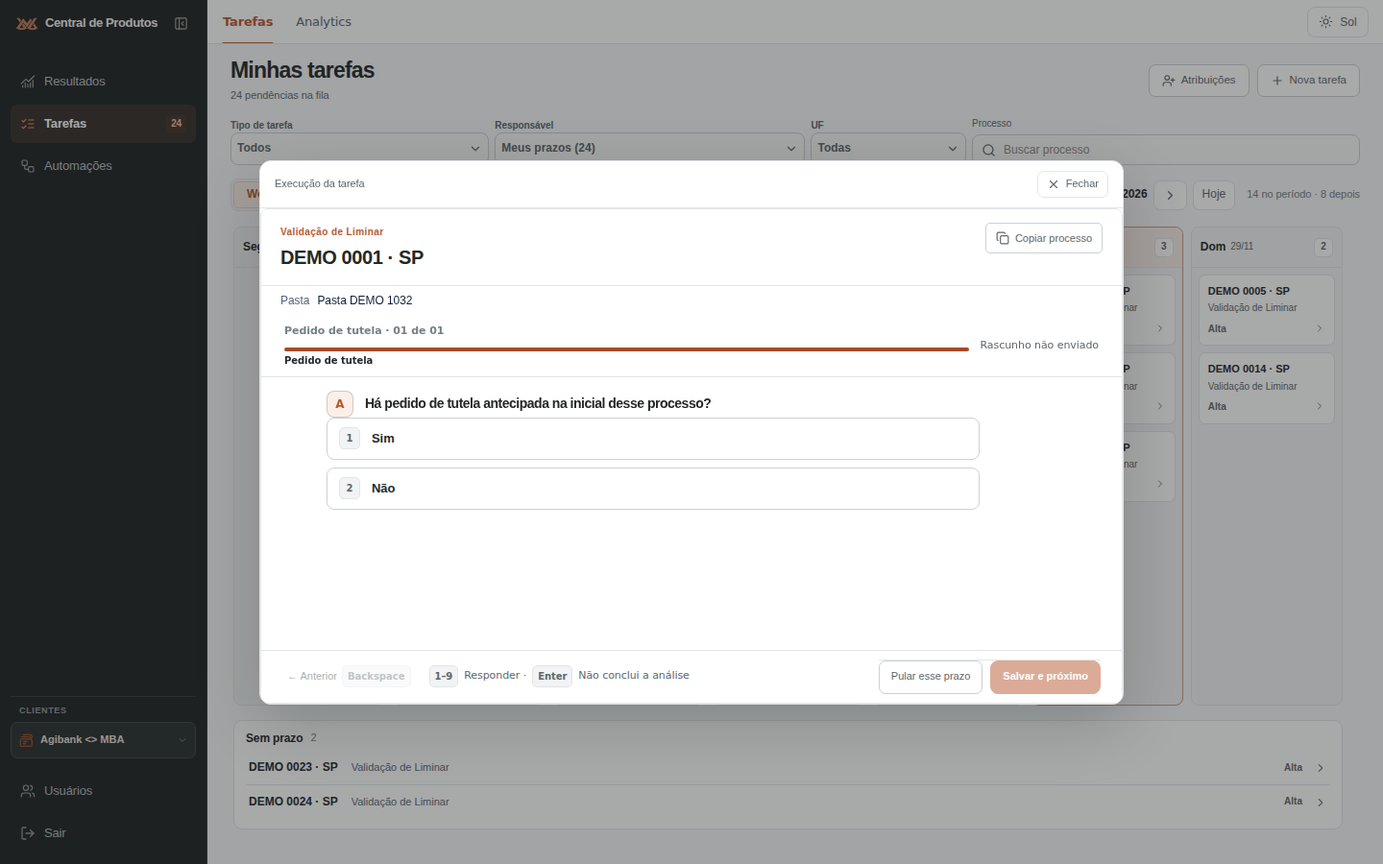
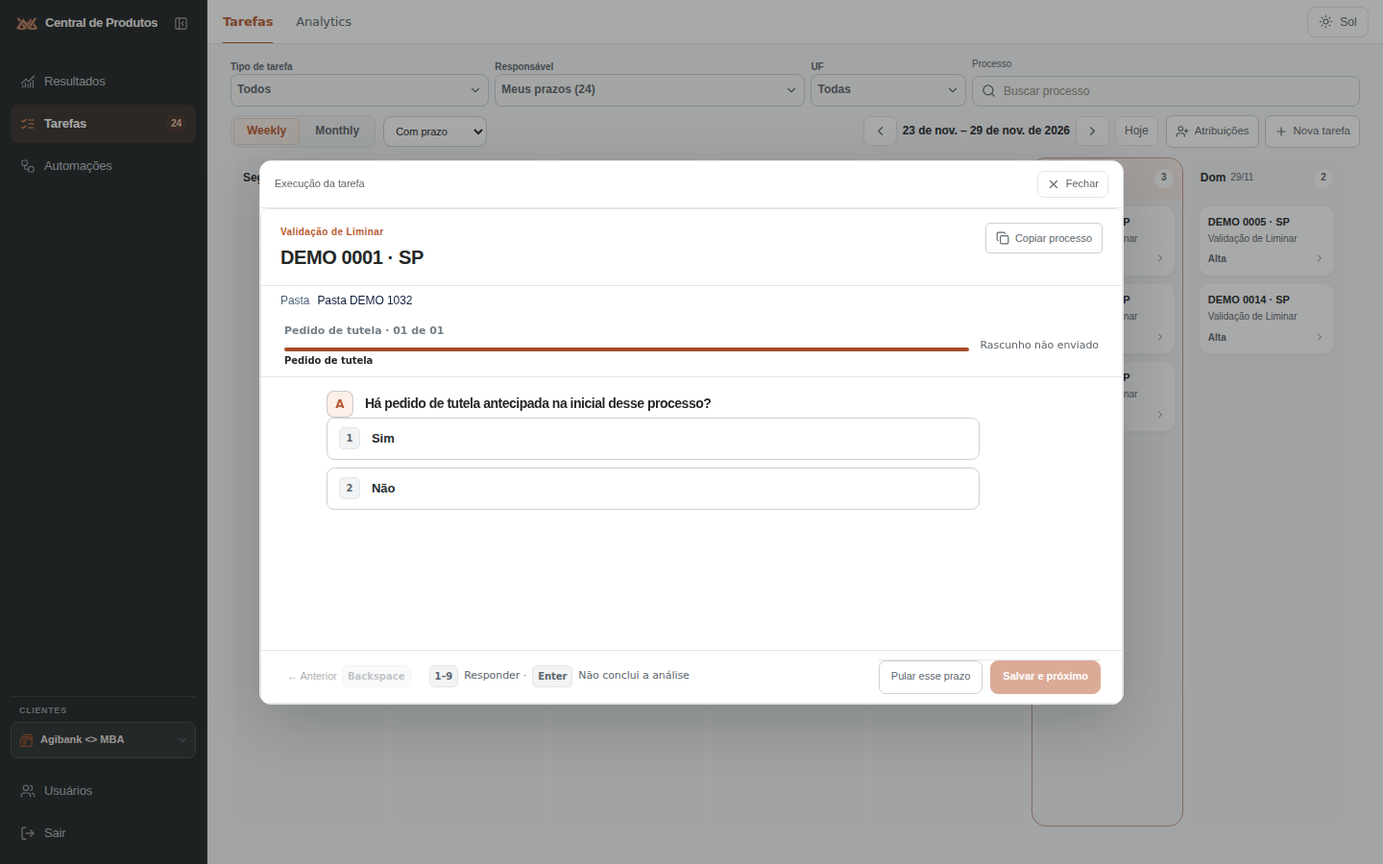
refine(tasks): simplify calendar chrome and filter undated tasks

diff --git a/src/tasks/taskCalendar.css b/src/tasks/taskCalendar.css
@@ -1,12 +1,10 @@
 /* Workspace presentation only. Use the current shell's Sol/Lua design tokens. */
 #tarefas[data-react-tasks='true'] .task-station .tasks-workspace.task-calendar-workspace {
   display:flex;flex-direction:column;grid-template-columns:none!important;grid-template-rows:none!important;
-  gap:14px!important;min-height:0;height:100%!important;overflow:visible!important;
+  gap:9px!important;min-height:0;height:100%!important;overflow:visible!important;
 }
-.task-agenda-header{display:flex;align-items:center;justify-content:space-between;gap:16px;flex-wrap:wrap;flex:none}
-.task-agenda-header h1{margin:0;color:var(--mba-text);font-size:23px;font-weight:600;letter-spacing:-.035em;line-height:1.2}
-.task-agenda-header p{margin:4px 0 0;color:var(--mba-text-2);font-size:11px}
-.task-agenda-actions{display:flex;gap:8px;flex-wrap:wrap}
+.task-agenda-actions{display:flex;gap:6px;flex-wrap:wrap;align-items:center}
+.task-agenda-actions button{min-height:31px;padding:0 9px;font-size:11px}
 .task-agenda-actions button,.task-management-return button{display:inline-flex;align-items:center;gap:6px;white-space:nowrap}
 .task-management-return{margin-bottom:14px}
 .task-agenda-filters{flex:none}
@@ -19,7 +17,7 @@
 #tarefas .task-agenda-filters .mba-react-select-trigger{height:34px;padding:0 10px}
 #tarefas[data-react-tasks='true'] .tasks-react-root.task-station .task-calendar-workspace .tasks-execution-panel{position:relative;top:auto;flex:1;display:flex;flex-direction:column;min-height:0;height:auto;gap:6px}
 .tcal{min-height:0;display:flex;flex:1;flex-direction:column;gap:10px;color:var(--mba-text);font-size:12px}
-.tcal-toolbar{display:flex;align-items:center;gap:12px;flex-wrap:wrap;flex:none;padding:0 0 6px}
+.tcal-toolbar{display:flex;align-items:center;gap:8px;flex-wrap:wrap;flex:none;padding:0}
 .tcal-modes{display:inline-flex;gap:2px;padding:2px;border:1px solid var(--mba-border);border-radius:8px;background:var(--mba-subtle)}
 .tcal-modes button{height:28px;padding:0 13px;border:1px solid transparent;border-radius:5px;background:transparent;color:var(--mba-text-2);font:inherit;font-weight:600;cursor:pointer}
 .tcal-modes button.active{background:var(--mba-accent-soft,var(--mba-blue-soft));color:var(--mba-accent,var(--mba-blue));border-color:color-mix(in srgb,var(--mba-blue) 17%,transparent)}
@@ -28,28 +26,28 @@
 .tcal-nav strong{min-width:150px;text-align:center;font-size:12px;font-weight:600}
 .tcal-nav button{height:31px;min-width:31px;padding:0 9px;display:inline-grid;place-items:center;border:1px solid var(--mba-border);border-radius:7px;background:var(--mba-surface);color:var(--mba-text-2);font:inherit;cursor:pointer}
 .tcal-nav button:hover,.tcal-item:hover{background:var(--mba-subtle)}
-.tcal-count{color:var(--mba-muted);font-size:11px;order:0}
+.tcal-nav-spacer{flex:1}
+.tcal-deadline-filter{height:32px;padding:0 8px;border:1px solid var(--mba-border);border-radius:9px;background:var(--mba-surface);color:var(--mba-text-2);font:inherit;font-size:11px;cursor:pointer}
 .tcal-scroll{flex:1;min-height:0;overflow:auto;display:flex;flex-direction:column;gap:12px;scrollbar-gutter:stable;padding:0 3px 12px}
 .tcal-kanban-scroll{flex:1;min-height:410px;overflow-x:auto;overflow-y:hidden;padding-bottom:3px;scrollbar-width:thin}
 .tcal-kanban{display:grid;grid-template-columns:repeat(7,minmax(150px,1fr));gap:8px;min-width:1098px;min-height:100%;height:100%}
-.tcal-kanban-column{display:flex;flex-direction:column;min-width:0;min-height:0;border:1px solid var(--mba-border);border-radius:8px;background:var(--mba-subtle)}
+.tcal-kanban-column{display:flex;flex-direction:column;min-width:0;min-height:0;border:1px solid transparent;border-radius:15px;background:color-mix(in srgb,var(--mba-subtle) 65%,var(--mba-bg));overflow:hidden}
 .tcal-kanban-column.weekend{background:color-mix(in srgb,var(--mba-subtle) 68%,var(--mba-bg))}
-.tcal-kanban-heading{flex:none;display:flex;align-items:center;justify-content:space-between;gap:4px;padding:10px 9px;border-bottom:1px solid var(--mba-border);min-height:42px}
+.tcal-kanban-heading{flex:none;display:flex;align-items:center;justify-content:space-between;gap:4px;padding:10px 9px;border-bottom:0;min-height:42px}
 .tcal-kanban-heading>div{display:flex;align-items:center;gap:5px;min-width:0;flex-wrap:wrap}
 .tcal-kanban-heading strong{font-size:12px;font-weight:650;color:var(--mba-text)}
 .tcal-kanban-date{font-size:10px;color:var(--mba-text-2);font-variant-numeric:tabular-nums}
-.tcal-kanban-count{flex:none;font-size:10px;font-weight:600;font-variant-numeric:tabular-nums;color:var(--mba-text-2);background:var(--mba-surface);border:1px solid var(--mba-border);min-width:20px;height:20px;display:grid;place-items:center;border-radius:5px;padding:0 4px}
+.tcal-kanban-count{flex:none;font-size:10px;font-weight:600;font-variant-numeric:tabular-nums;color:var(--mba-text-2);background:var(--mba-surface);border:0;min-width:20px;height:20px;display:grid;place-items:center;border-radius:999px;padding:0 4px}
 .tcal-today-label{font-size:9px;color:var(--mba-blue);font-weight:600}
 .tcal-kanban-column.today{border-color:color-mix(in srgb,var(--mba-blue) 50%,var(--mba-border))}
-.tcal-kanban-column.today .tcal-kanban-heading{background:var(--mba-blue-soft);border-radius:7px 7px 0 0}
+.tcal-kanban-column.today .tcal-kanban-heading{background:var(--mba-blue-soft);border-radius:14px 14px 0 0}
 .tcal-kanban-items{display:flex;flex-direction:column;gap:7px;overflow:auto;min-height:0;flex:1;padding:7px;scrollbar-width:thin}
-.tcal-kanban-empty{display:block;padding:9px 2px;color:var(--mba-muted);font-size:10px;text-align:center}
 .tcal-lane{border:1px solid var(--mba-border);border-radius:9px;background:var(--mba-surface);overflow:hidden}
 .tcal-item{width:100%;min-width:0;display:flex;align-items:center;gap:12px;min-height:35px;padding:6px 3px;border:0;border-bottom:1px solid var(--mba-border);background:transparent;color:var(--mba-text);font:inherit;text-align:left;cursor:pointer}
 .tcal-item-main{flex:1;min-width:0;display:flex;align-items:center;gap:14px}
 .tcal-item strong{font-size:12px;font-weight:600;overflow:hidden;text-overflow:ellipsis;white-space:nowrap}
 .tcal-item small{color:var(--mba-text-2);font-size:11px;overflow:hidden;text-overflow:ellipsis;white-space:nowrap}
-.tcal-kanban-items>.tcal-item{flex:none;display:grid;grid-template-columns:minmax(0,1fr) auto;gap:8px 4px;align-items:start;min-height:74px;padding:9px;border:1px solid var(--mba-border);border-radius:7px;background:var(--mba-surface)}
+.tcal-kanban-items>.tcal-item{flex:none;display:grid;grid-template-columns:minmax(0,1fr) auto;gap:8px 4px;align-items:start;min-height:74px;padding:9px;border:1px solid color-mix(in srgb,var(--mba-border) 45%,transparent);border-radius:12px;background:var(--mba-surface);box-shadow:0 1px 2px color-mix(in srgb,var(--mba-text) 5%,transparent)}
 .tcal-kanban-items>.tcal-item:hover{border-color:var(--mba-border-strong);background:var(--mba-surface)}
 .tcal-kanban-items .tcal-item-main{grid-column:1/-1;display:flex;flex-direction:column;align-items:flex-start;gap:4px;width:100%}
 .tcal-kanban-items .tcal-item-main strong{width:100%;font-size:11px;white-space:normal;overflow-wrap:anywhere;line-height:1.3}
@@ -63,7 +61,7 @@
 .tcal-item-arrow{color:var(--mba-muted);flex:none}
 .tcal-item.selected:focus-visible{background:var(--mba-accent-soft,var(--mba-blue-soft))}
 .tcal-more{align-self:flex-start;padding:8px 3px;border:0;background:transparent;color:var(--mba-blue);font:inherit;font-size:11px;font-weight:600;cursor:pointer;text-align:left}
-.tcal-grid{display:grid;grid-template-columns:repeat(7,minmax(0,1fr));gap:1px;border:1px solid var(--mba-border);border-radius:9px;background:var(--mba-border);overflow:hidden;flex:none}
+.tcal-grid{display:grid;grid-template-columns:repeat(7,minmax(0,1fr));gap:1px;border:1px solid var(--mba-border);border-radius:14px;background:var(--mba-border);overflow:hidden;flex:none}
 .tcal-weekday{padding:8px 10px;background:var(--mba-subtle);color:var(--mba-text-2);font-size:10px;font-weight:600;text-transform:uppercase}
 .tcal-day{min-width:0;background:var(--mba-surface);padding:7px;display:flex;flex-direction:column;gap:5px;min-height:90px}
 .tcal-day.outside{background:var(--mba-subtle);color:var(--mba-muted)}
@@ -71,11 +69,16 @@
 .tcal-day-head{display:flex;align-items:center;justify-content:space-between;font-weight:600;font-size:11px}
 .tcal-day-head em{font-style:normal;padding:2px 6px;border-radius:5px;background:var(--mba-subtle);color:var(--mba-text-2);font-size:10px}
 .tcal-day-items{display:flex;flex-direction:column;gap:3px}
-.tcal-item.compact{min-height:22px;padding:4px 6px;border:0;border-radius:4px;background:var(--mba-subtle)}
+.tcal-item.compact{min-height:22px;padding:4px 6px;border:0;border-radius:7px;background:var(--mba-subtle)}
 .tcal-item.compact strong{font-size:10px}
 .tcal-item.compact:hover{background:var(--mba-accent-soft,var(--mba-blue-soft))}
-.tcal-lanes{display:grid;grid-template-columns:repeat(auto-fit,minmax(260px,1fr));gap:10px;flex:none}
-.tcal-lane{padding:10px 12px;display:flex;flex-direction:column;gap:5px}
+.tcal-undated-view{flex:1;min-height:0}
+.tcal-undated-items{display:grid;grid-template-columns:repeat(auto-fill,minmax(200px,1fr));gap:8px}
+.tcal-undated-items>.tcal-item{padding:10px;border:1px solid var(--mba-border);border-radius:12px;background:var(--mba-surface)}
+.tcal-undated-items .tcal-item-main{flex-direction:column;align-items:flex-start;gap:4px}
+.tcal-undated-items .tcal-more{grid-column:1/-1}
+.tcal-undated-empty{color:var(--mba-muted);font-size:11px}
+.tcal-lane{flex:none;padding:10px 12px;display:flex;flex-direction:column;gap:5px}
 .tcal-lane h3{margin:0;display:flex;align-items:center;gap:8px;font-size:12px;font-weight:600}
 .tcal-lane h3 em{font-style:normal;color:var(--mba-muted);font-size:11px;font-weight:500}
 .tcal-lane>div{display:grid}
@@ -89,4 +92,4 @@
 #tarefas .task-card-shell>.execution-card{border:0!important;border-radius:0!important}
 .task-card-shell .tasks-renderer-body{min-height:0;overflow:auto}
 @media(max-width:1000px){#tarefas .task-agenda-filters .queue-station-filters{grid-template-columns:repeat(2,minmax(0,1fr))!important}.tcal-nav{margin-left:0}}
-@media(max-width:700px){#tarefas .task-agenda-filters .queue-station-filters{gap:7px}.task-agenda-header h1{font-size:19px}.tcal-scroll{overflow:visible}.tcal-monthly .tcal-scroll{overflow:auto}.tcal-monthly .tcal-grid{min-width:560px}.tcal-item-main{flex-direction:column;align-items:flex-start;gap:3px}.tcal-weekly .tcal-scroll{overflow:auto}.tcal-kanban-scroll{flex:none;height:460px}.task-card-layer{padding:8px}.task-card-layer>.task-card-shell{height:min(86dvh,680px);max-height:calc(100dvh - 16px)}}
+@media(max-width:700px){#tarefas .task-agenda-filters .queue-station-filters{gap:7px}.tcal-scroll{overflow:visible}.tcal-monthly .tcal-scroll{overflow:auto}.tcal-monthly .tcal-grid{min-width:560px}.tcal-item-main{flex-direction:column;align-items:flex-start;gap:3px}.tcal-weekly .tcal-scroll{overflow:auto}.tcal-kanban-scroll{flex:none;height:460px}.task-card-layer{padding:8px}.task-card-layer>.task-card-shell{height:min(86dvh,680px);max-height:calc(100dvh - 16px)}}

diff --git a/src/tasks/TasksApp.tsx b/src/tasks/TasksApp.tsx
@@ -841,13 +841,6 @@ export function TasksApp() {
       {loadError ? <div className="workbench-notice" role="alert"><span>Não foi possível atualizar a fila. {loadError}</span><button type="button" onClick={() => void loadTaskList(true)}>Tentar novamente</button></div> : null}
       {actionNotice ? <div className="execution-notification" role="status"><span>{actionNotice}</span><button type="button" aria-label="Fechar confirmação" onClick={() => setActionNotice(null)}>×</button></div> : null}
       <section className="tasks-workspace task-calendar-workspace">
-        <header className="task-agenda-header">
-          <div><h1>{selectedAssignee === 'mine' ? 'Minhas tarefas' : 'Tarefas'}</h1><p>{queueHydrating ? 'Atualizando fila…' : `${filteredItems.length} pendências na fila`}</p></div>
-          <div className="task-agenda-actions">
-            {(manager || canViewOtherTasks) ? <button type="button" className="secondary-button" onClick={() => navigateTaskTab('tarefas/atribuicoes')}><UserPlus size={14}/> Atribuições</button> : null}
-            {canCreate ? <button type="button" className="secondary-button" onClick={() => setCreateOpen(true)}><Plus size={14}/> Nova tarefa</button> : null}
-          </div>
-        </header>
         <div className="task-agenda-filters">
           <div className="queue-station-filters">
         <SelectMenu label="Tipo de tarefa" value={selectedType} options={typeOptions} onChange={value => { setSelectedType(value); setActiveKey(null); }} />
@@ -857,7 +850,10 @@ export function TasksApp() {
           </div>
           {assigneeError ? <small className="tasks-queue-load-error" role="alert">{assigneeError}</small> : null}
         </div>
-        <main className="tasks-execution-panel">{!filteredItems.length ? <div className="tasks-react-state"><strong>{loading ? 'Carregando tarefas' : 'Nenhum processo selecionado'}</strong><span>{loadError || (relevantTasks.length ? 'Selecione um filtro com processos pendentes.' : 'Não há tarefas atribuídas a este usuário.')}</span>{loadError ? <button className="secondary-button" type="button" onClick={() => void loadTaskList(true)}>Tentar novamente</button> : null}</div> : null}<TaskCalendar items={filteredItems} mode={calendarMode} anchor={calendarAnchor} activeKey={activeKey} onModeChange={changeCalendarMode} onAnchorChange={setCalendarAnchor} onOpen={openItem} />{cardVisible ? <div className="task-card-layer" onMouseDown={event => { if (event.target === event.currentTarget) closeCard(); }}><div className="task-card-shell" ref={cardRef} tabIndex={-1} role="dialog" aria-modal="true" aria-label={activeItem ? `Execução de ${activeItem.process.case_number || 'processo'}` : 'Detalhe da tarefa'}><div className="task-card-bar"><span>Execução da tarefa</span><button type="button" onClick={closeCard} aria-label="Fechar e voltar à visualização"><X size={14} /> Fechar</button></div>{linkedError ? <div className="tasks-react-state" role="alert">{linkedError}</div> : linkedPreview ? <article className="tasks-renderer-card execution-card"><ProcessHeading task={linkedPreview.task} process={linkedPreview.process}/><div className="task-form-content"><h3>{linkedPreview.task.title}</h3><p>Status: {taskStatusLabel(linkedPreview.process.status)} · Prioridade: {linkedPreview.task.priority}</p><p>Responsável: {linkedPreview.task.responsible_name || linkedPreview.process.assignee_id || 'Não informado'}</p><p>Prazo: {formatDate(linkedPreview.task.deadline_at)}</p><p role="status">Consulta da tarefa. A execução exige atribuição e tarefa pendente.</p></div></article> : activeItem && !canExecuteTeam && !processAssignedToUser(activeItem.task, activeItem.process, user, manager) ? <article className="tasks-renderer-card execution-card"><ProcessHeading task={activeItem.task} process={activeItem.process}/><TaskBrief task={activeItem.task} process={activeItem.process}/><div className="task-form-content"><p><strong>Visualização da equipe</strong></p><p>Responsável selecionado: {assigneeTotals.find(person => person.id === activeItem.process.assignee_id)?.name || 'Não informado'}</p><p>Prazo: {formatDate(activeItem.task.deadline_at)}</p><p>Você pode consultar este prazo. A execução exige permissão específica para tarefas de outros responsáveis.</p></div></article> : activeItem ? <><article className="tasks-renderer-card execution-card"><ProcessHeading task={activeItem.task} process={activeItem.process}/><TaskBrief task={activeItem.task} process={activeItem.process}/><div className="tasks-renderer-body" key={normalize(activeItem.task.type) === 'acordos' ? `agreement:${activeItem.task.id}` : workItemKey(activeItem)}>{normalize(activeItem.process.status) === 'completed' ? <div className="tasks-renderer-state"><strong>Processo concluído</strong></div> : normalize(activeItem.task.type) === 'liminar' ? <LiminarRenderer api={apiRequest} task={activeItem.task} process={activeItem.process} draftKey={qaDraftKey} onCompleted={process => markCompleted(activeItem.task, process)} onSkipped={process => markSkipped(activeItem.task, process)} /> : normalize(activeItem.task.type) === 'defesa' ? <DefenseRenderer api={apiRequest} task={activeItem.task} process={activeItem.process} draftKey={qaDraftKey} onCompleted={process => markCompleted(activeItem.task, process)} onSkipped={process => markSkipped(activeItem.task, process)} /> : normalize(activeItem.task.type) === 'encerramento' ? <ClosingRenderer api={apiRequest} task={activeItem.task} process={activeItem.process} draftKey={qaDraftKey} onCompleted={process => markCompleted(activeItem.task, process)} onDeferred={(process, reopenAt) => markClosingDeferred(activeItem.task, process, reopenAt)} onSkipped={process => markSkipped(activeItem.task, process)} /> : normalize(activeItem.task.type) === 'motivo_derrota' ? (
+        <main className="tasks-execution-panel">{!filteredItems.length ? <div className="tasks-react-state"><strong>{loading ? 'Carregando tarefas' : 'Nenhum processo selecionado'}</strong><span>{loadError || (relevantTasks.length ? 'Selecione um filtro com processos pendentes.' : 'Não há tarefas atribuídas a este usuário.')}</span>{loadError ? <button className="secondary-button" type="button" onClick={() => void loadTaskList(true)}>Tentar novamente</button> : null}</div> : null}<TaskCalendar actions={<div className="task-agenda-actions">
+            {(manager || canViewOtherTasks) ? <button type="button" className="secondary-button" onClick={() => navigateTaskTab('tarefas/atribuicoes')}><UserPlus size={14}/> Atribuições</button> : null}
+            {canCreate ? <button type="button" className="secondary-button" onClick={() => setCreateOpen(true)}><Plus size={14}/> Nova tarefa</button> : null}
+          </div>} items={filteredItems} mode={calendarMode} anchor={calendarAnchor} activeKey={activeKey} onModeChange={changeCalendarMode} onAnchorChange={setCalendarAnchor} onOpen={openItem} />{cardVisible ? <div className="task-card-layer" onMouseDown={event => { if (event.target === event.currentTarget) closeCard(); }}><div className="task-card-shell" ref={cardRef} tabIndex={-1} role="dialog" aria-modal="true" aria-label={activeItem ? `Execução de ${activeItem.process.case_number || 'processo'}` : 'Detalhe da tarefa'}><div className="task-card-bar"><span>Execução da tarefa</span><button type="button" onClick={closeCard} aria-label="Fechar e voltar à visualização"><X size={14} /> Fechar</button></div>{linkedError ? <div className="tasks-react-state" role="alert">{linkedError}</div> : linkedPreview ? <article className="tasks-renderer-card execution-card"><ProcessHeading task={linkedPreview.task} process={linkedPreview.process}/><div className="task-form-content"><h3>{linkedPreview.task.title}</h3><p>Status: {taskStatusLabel(linkedPreview.process.status)} · Prioridade: {linkedPreview.task.priority}</p><p>Responsável: {linkedPreview.task.responsible_name || linkedPreview.process.assignee_id || 'Não informado'}</p><p>Prazo: {formatDate(linkedPreview.task.deadline_at)}</p><p role="status">Consulta da tarefa. A execução exige atribuição e tarefa pendente.</p></div></article> : activeItem && !canExecuteTeam && !processAssignedToUser(activeItem.task, activeItem.process, user, manager) ? <article className="tasks-renderer-card execution-card"><ProcessHeading task={activeItem.task} process={activeItem.process}/><TaskBrief task={activeItem.task} process={activeItem.process}/><div className="task-form-content"><p><strong>Visualização da equipe</strong></p><p>Responsável selecionado: {assigneeTotals.find(person => person.id === activeItem.process.assignee_id)?.name || 'Não informado'}</p><p>Prazo: {formatDate(activeItem.task.deadline_at)}</p><p>Você pode consultar este prazo. A execução exige permissão específica para tarefas de outros responsáveis.</p></div></article> : activeItem ? <><article className="tasks-renderer-card execution-card"><ProcessHeading task={activeItem.task} process={activeItem.process}/><TaskBrief task={activeItem.task} process={activeItem.process}/><div className="tasks-renderer-body" key={normalize(activeItem.task.type) === 'acordos' ? `agreement:${activeItem.task.id}` : workItemKey(activeItem)}>{normalize(activeItem.process.status) === 'completed' ? <div className="tasks-renderer-state"><strong>Processo concluído</strong></div> : normalize(activeItem.task.type) === 'liminar' ? <LiminarRenderer api={apiRequest} task={activeItem.task} process={activeItem.process} draftKey={qaDraftKey} onCompleted={process => markCompleted(activeItem.task, process)} onSkipped={process => markSkipped(activeItem.task, process)} /> : normalize(activeItem.task.type) === 'defesa' ? <DefenseRenderer api={apiRequest} task={activeItem.task} process={activeItem.process} draftKey={qaDraftKey} onCompleted={process => markCompleted(activeItem.task, process)} onSkipped={process => markSkipped(activeItem.task, process)} /> : normalize(activeItem.task.type) === 'encerramento' ? <ClosingRenderer api={apiRequest} task={activeItem.task} process={activeItem.process} draftKey={qaDraftKey} onCompleted={process => markCompleted(activeItem.task, process)} onDeferred={(process, reopenAt) => markClosingDeferred(activeItem.task, process, reopenAt)} onSkipped={process => markSkipped(activeItem.task, process)} /> : normalize(activeItem.task.type) === 'motivo_derrota' ? (
       (activeItem.process.assignee_id !== user?.id && !canManage)
         ? <div className="task-form-content motivo-derrota-reassignment">
             <h3>Processo atribuído a outro analista</h3>

diff --git a/src/tasks/TaskCalendar.tsx b/src/tasks/TaskCalendar.tsx
@@ -1,4 +1,4 @@
-import { useMemo, useState } from 'react';
+import { useMemo, useState, type ReactNode } from 'react';
 import { ChevronLeft, ChevronRight } from 'lucide-react';
 import { priorityLevel, taskTypeLabel, workItemKey, type WorkItem } from './model';
 import './taskCalendar.css';
@@ -77,10 +77,11 @@ function DayItems({ id, items, limit, activeKey, compact, expanded, onToggle, on
   </>;
 }
 
-export function TaskCalendar({ items, mode, anchor, activeKey, onModeChange, onAnchorChange, onOpen }: {
-  items: WorkItem[]; mode: CalendarMode; anchor: Date; activeKey: string | null;
+export function TaskCalendar({ items, mode, anchor, activeKey, onModeChange, onAnchorChange, onOpen, actions }: {
+  actions?: ReactNode; items: WorkItem[]; mode: CalendarMode; anchor: Date; activeKey: string | null;
   onModeChange: (mode: CalendarMode) => void; onAnchorChange: (anchor: Date) => void; onOpen: (item: WorkItem) => void;
 }) {
+  const [deadlineScope, setDeadlineScope] = useState<'dated' | 'undated'>('dated');
   const [expanded, setExpanded] = useState<Set<string>>(() => new Set());
   const toggle = (id: string) => setExpanded(current => { const next = new Set(current); if (next.has(id)) next.delete(id); else next.add(id); return next; });
   const range = useMemo(() => calendarRange(mode, anchor), [mode, anchor]);
@@ -110,26 +111,31 @@ export function TaskCalendar({ items, mode, anchor, activeKey, onModeChange, onA
     return Array.from({ length: total }, (_, index) => addDays(first, index));
   }, [mode, range]);
 
-  const inPeriod = items.length - buckets.before.length - buckets.undated.length - buckets.after;
   const limit = mode === 'weekly' ? WEEK_LIMIT : MONTH_LIMIT;
 
   return <section className={`tcal tcal-${mode}`} aria-label="Distribuição das tarefas">
     <header className="tcal-toolbar">
       <div className="tcal-modes" role="group" aria-label="Modo de visualização">
-        <button type="button" aria-pressed={mode === 'weekly'} className={mode === 'weekly' ? 'active' : ''} onClick={() => onModeChange('weekly')}>Weekly</button>
-        <button type="button" aria-pressed={mode === 'monthly'} className={mode === 'monthly' ? 'active' : ''} onClick={() => onModeChange('monthly')}>Monthly</button>
+        <button type="button" aria-pressed={mode === 'weekly'} className={mode === 'weekly' ? 'active' : ''} onClick={() => { setDeadlineScope('dated'); onModeChange('weekly'); }}>Weekly</button>
+        <button type="button" aria-pressed={mode === 'monthly'} className={mode === 'monthly' ? 'active' : ''} onClick={() => { setDeadlineScope('dated'); onModeChange('monthly'); }}>Monthly</button>
       </div>
-      <div className="tcal-nav">
+      <select className="tcal-deadline-filter" aria-label="Prazo" value={deadlineScope} onChange={event => setDeadlineScope(event.target.value === 'undated' ? 'undated' : 'dated')}>
+        <option value="dated">Com prazo</option>
+        <option value="undated">Sem prazo ({buckets.undated.length})</option>
+      </select>
+      {deadlineScope === 'dated' ? <div className="tcal-nav">
         <button type="button" aria-label={mode === 'weekly' ? 'Semana anterior' : 'Mês anterior'} onClick={() => onAnchorChange(shiftAnchor(mode, anchor, -1))}><ChevronLeft size={15} /></button>
         <strong aria-live="polite">{range.label}</strong>
         <button type="button" aria-label={mode === 'weekly' ? 'Próxima semana' : 'Próximo mês'} onClick={() => onAnchorChange(shiftAnchor(mode, anchor, 1))}><ChevronRight size={15} /></button>
         <button type="button" className="tcal-today" onClick={() => onAnchorChange(new Date())}>Hoje</button>
-      </div>
-      <span className="tcal-count">{inPeriod} no período{buckets.after ? ` · ${buckets.after} depois` : ''}</span>
+      </div> : <div className="tcal-nav-spacer" />}
+      {actions}
     </header>
 
     <div className="tcal-scroll">
-      {mode === 'weekly' ? <div className="tcal-kanban-scroll">
+      {deadlineScope === 'undated' ? <section className="tcal-undated-view" aria-label="Tarefas sem prazo">
+        {buckets.undated.length ? <div className="tcal-undated-items"><DayItems id="undated" items={buckets.undated} limit={LANE_LIMIT} activeKey={activeKey} expanded={expanded.has('undated')} onToggle={toggle} onOpen={onOpen} /></div> : <span className="tcal-undated-empty">Nenhuma tarefa sem prazo.</span>}
+      </section> : <>{mode === 'weekly' ? <div className="tcal-kanban-scroll">
         <div className="tcal-kanban" aria-label={range.label}>
           {days.map((date, index) => {
             const key = dayKey(date);
@@ -141,7 +147,7 @@ export function TaskCalendar({ items, mode, anchor, activeKey, onModeChange, onA
                 <span className="tcal-kanban-count" aria-label={`${rows.length} pendências`}>{rows.length}</span>
               </header>
               <div className="tcal-kanban-items">
-                {rows.length ? <DayItems id={key} items={rows} limit={limit} activeKey={activeKey} expanded={expanded.has(key)} onToggle={toggle} onOpen={onOpen}/> : <span className="tcal-kanban-empty">Sem tarefas</span>}
+                {rows.length ? <DayItems id={key} items={rows} limit={limit} activeKey={activeKey} expanded={expanded.has(key)} onToggle={toggle} onOpen={onOpen}/> : null}
               </div>
             </section>;
           })}
@@ -159,16 +165,11 @@ export function TaskCalendar({ items, mode, anchor, activeKey, onModeChange, onA
         })}
       </div>}
 
-      {buckets.before.length || buckets.undated.length ? <div className="tcal-lanes">
-        {buckets.before.length ? <section className="tcal-lane overdue" aria-label="Anteriores ao período">
-          <h3>Anteriores ao período <em>{buckets.before.length}</em></h3>
-          <div><DayItems id="before" items={buckets.before} limit={LANE_LIMIT} activeKey={activeKey} expanded={expanded.has('before')} onToggle={toggle} onOpen={onOpen} /></div>
-        </section> : null}
-        {buckets.undated.length ? <section className="tcal-lane" aria-label="Sem prazo">
-          <h3>Sem prazo <em>{buckets.undated.length}</em></h3>
-          <div><DayItems id="undated" items={buckets.undated} limit={LANE_LIMIT} activeKey={activeKey} expanded={expanded.has('undated')} onToggle={toggle} onOpen={onOpen} /></div>
-        </section> : null}
-      </div> : null}
+      {buckets.before.length ? <section className="tcal-lane overdue" aria-label="Anteriores ao período">
+        <h3>Anteriores <em>{buckets.before.length}</em></h3>
+        <div><DayItems id="before" items={buckets.before} limit={LANE_LIMIT} activeKey={activeKey} expanded={expanded.has('before')} onToggle={toggle} onOpen={onOpen} /></div>
+      </section> : null}
+      </>}
     </div>
   </section>;
 }
